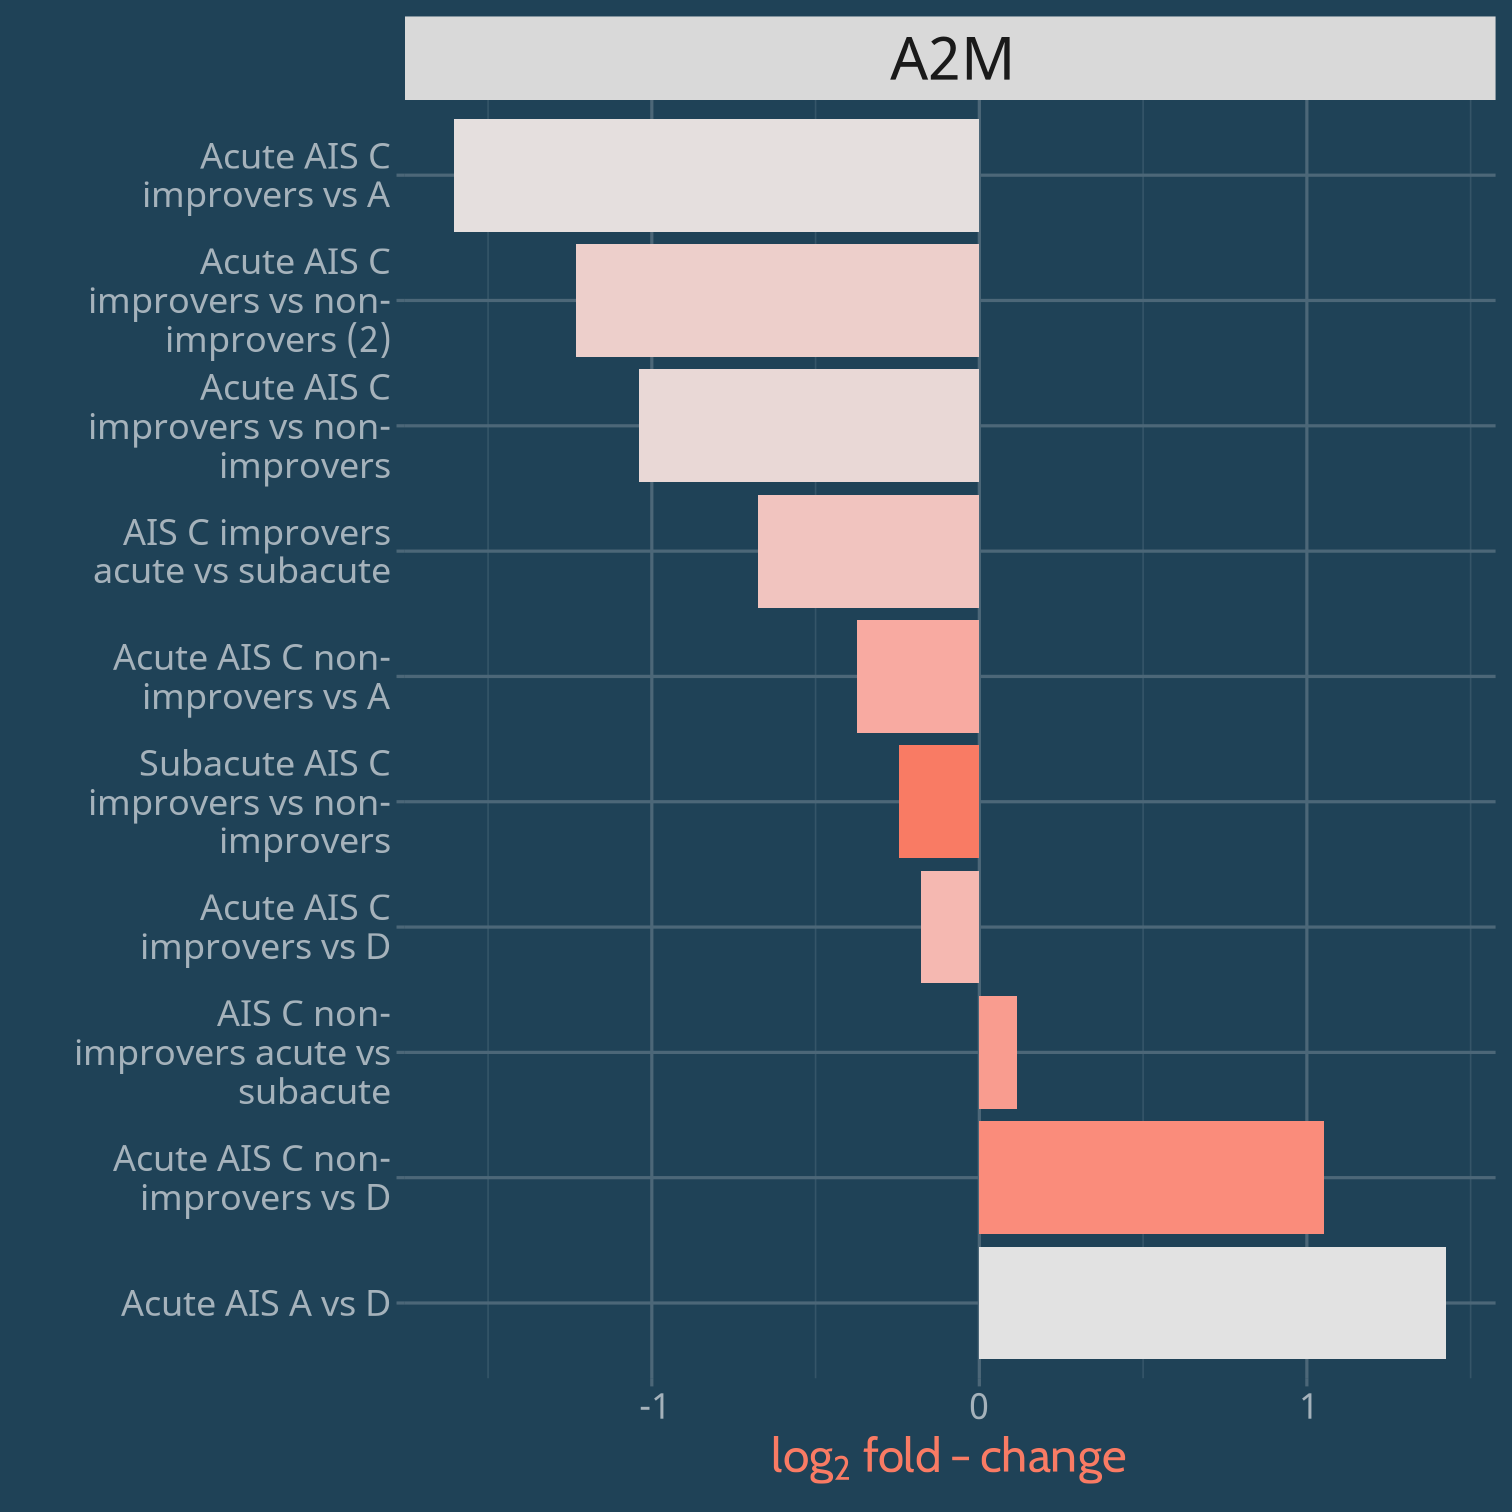
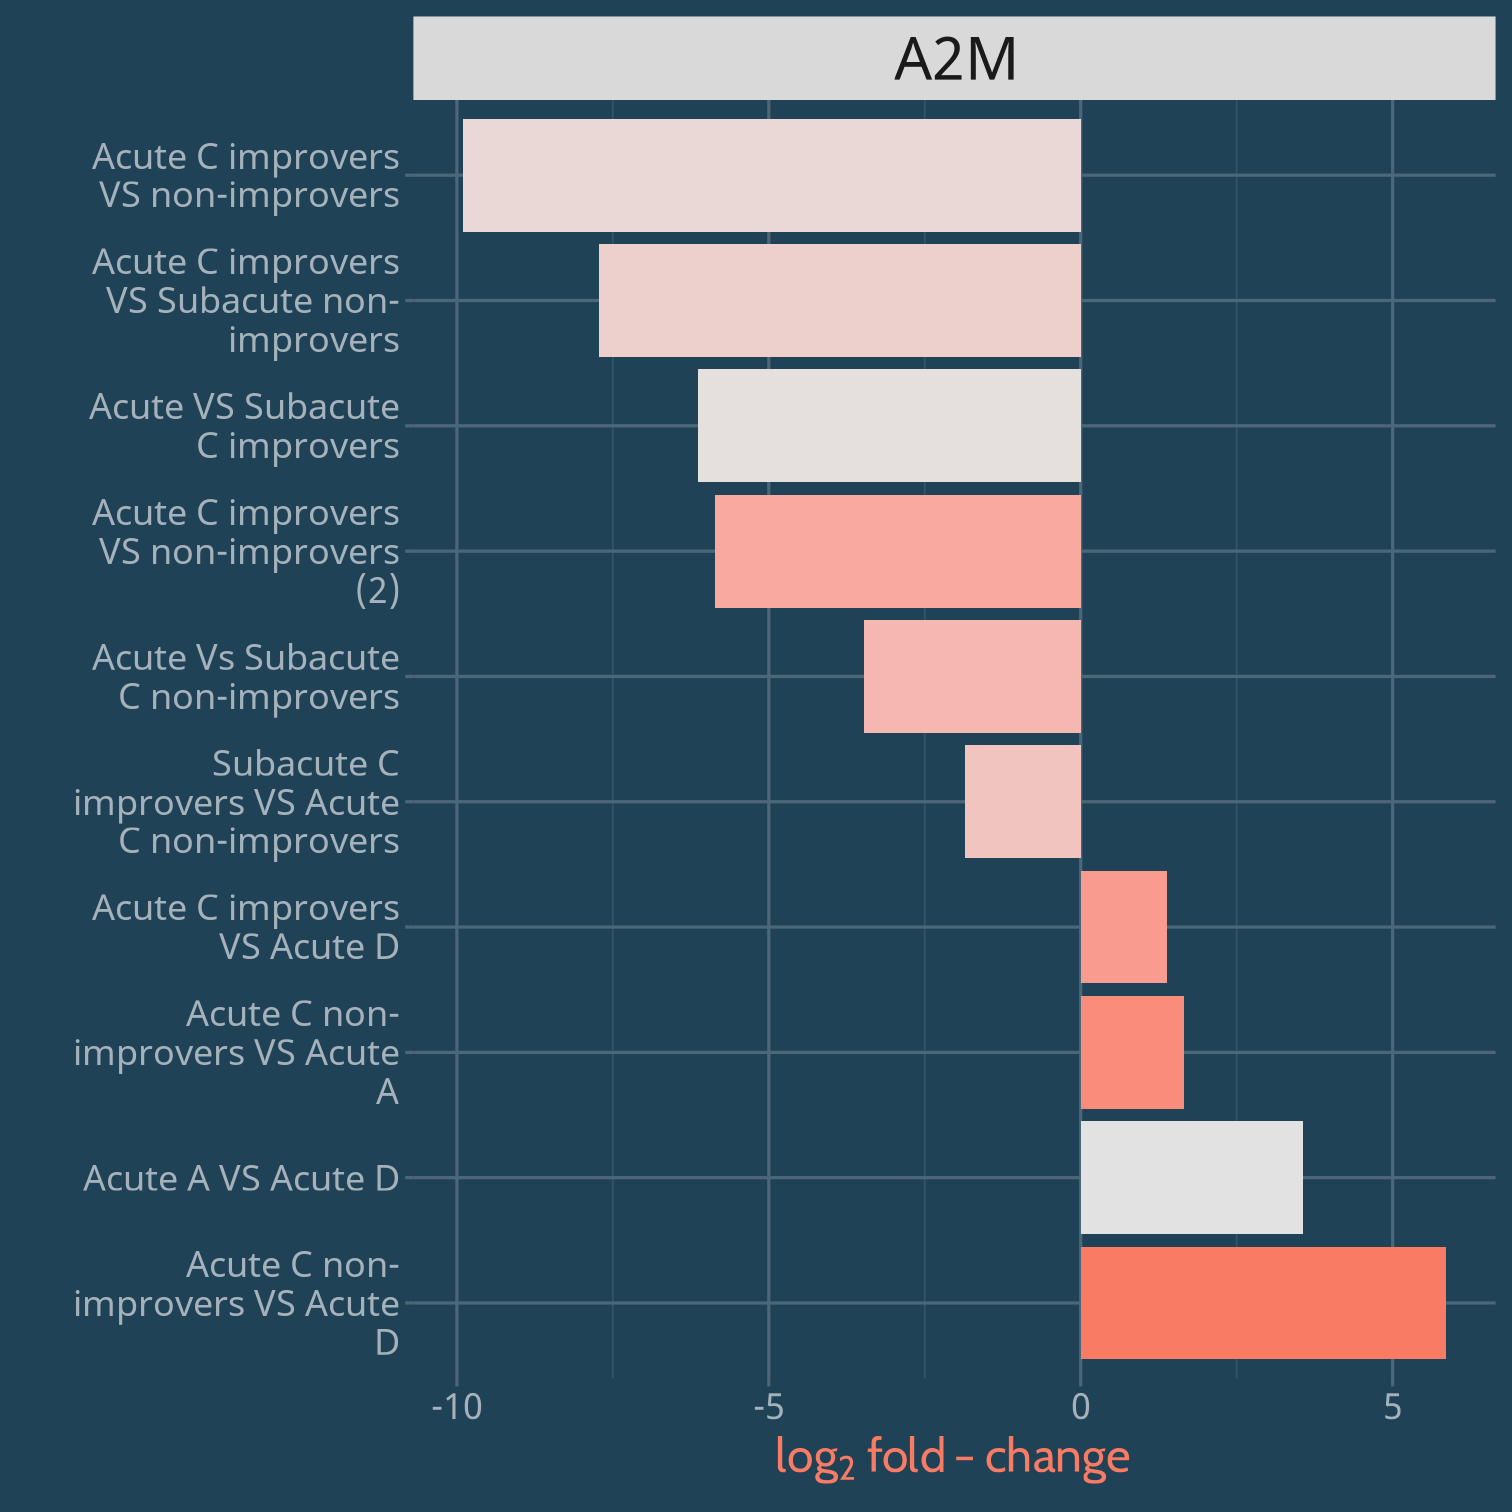
Removed a slide, cleaned up generally

diff --git a/iscos_sci_proteomics_2021-08-31/index.html b/iscos_sci_proteomics_2021-08-31/index.html
@@ -25,7 +25,7 @@ class: center, middle, inverse, title-slide
 # Proteomic and bioinformatics analyses of plasma from SCI neurological improvers and non-improvers
 ### Gabriel Mateus Bernardo Harrington
 ### Keele University
-### ISCoS 2021: VIRTUAL<br>Presented: 2021-10-01<br>(updated: 2021-09-02)
+### ISCoS 2021: VIRTUAL<br>Presented: 2021-10-01<br>(updated: 2021-09-03)
 
 ---
 
@@ -48,8 +48,8 @@ I declare to have no interests in the below:
 - Compensation for expert functions in health care and consulting health care guidance processes
 
 .center[
-<div id="htmlwidget-f2fda9ecb139a512e2f2" style="width:756px;height:288px;" class="leaflet html-widget"></div>
-<script type="application/json" data-for="htmlwidget-f2fda9ecb139a512e2f2">{"x":{"options":{"crs":{"crsClass":"L.CRS.EPSG3857","code":null,"proj4def":null,"projectedBounds":null,"options":{}}},"calls":[{"method":"addTiles","args":["//{s}.tile.openstreetmap.org/{z}/{x}/{y}.png",null,null,{"minZoom":0,"maxZoom":18,"tileSize":256,"subdomains":"abc","errorTileUrl":"","tms":false,"noWrap":false,"zoomOffset":0,"zoomReverse":false,"opacity":1,"zIndex":1,"detectRetina":false,"attribution":"&copy; <a href=\"http://openstreetmap.org\">OpenStreetMap<\/a> contributors, <a href=\"http://creativecommons.org/licenses/by-sa/2.0/\">CC-BY-SA<\/a>"}]}],"setView":[[52.884422,-3.033414],16,[]]},"evals":[],"jsHooks":[]}</script>
+<div id="htmlwidget-80e8397d92b804caa531" style="width:756px;height:288px;" class="leaflet html-widget"></div>
+<script type="application/json" data-for="htmlwidget-80e8397d92b804caa531">{"x":{"options":{"crs":{"crsClass":"L.CRS.EPSG3857","code":null,"proj4def":null,"projectedBounds":null,"options":{}}},"calls":[{"method":"addTiles","args":["//{s}.tile.openstreetmap.org/{z}/{x}/{y}.png",null,null,{"minZoom":0,"maxZoom":18,"tileSize":256,"subdomains":"abc","errorTileUrl":"","tms":false,"noWrap":false,"zoomOffset":0,"zoomReverse":false,"opacity":1,"zIndex":1,"detectRetina":false,"attribution":"&copy; <a href=\"http://openstreetmap.org\">OpenStreetMap<\/a> contributors, <a href=\"http://creativecommons.org/licenses/by-sa/2.0/\">CC-BY-SA<\/a>"}]}],"setView":[[52.884422,-3.033414],16,[]]},"evals":[],"jsHooks":[]}</script>
 ]
 
 ???
@@ -59,6 +59,8 @@ I declare to have no interests in the below:
 ---
 
 ## Prior work
+
+
 
 - Modelling of neurological outcomes with routine heamatological markers([Brown, Harrington, Hulme, et al., 2019](https://doi.org/10.1089/neu.2019.6495); [Bernardo Harrington, Cool, Hulme, et al., 2020](https://doi.org/10.1089/neu.2020.7144))
 - Found markers associated with liver function added modest predictive value
@@ -144,6 +146,20 @@ I declare to have no interests in the below:
 
 ---
 
+## iTRAQ key pathway - Complement cascade
+
+- Total number of proteins identified: 79
+- Majority of proteins identified are part of the complement cascade, differences in these pathways appears to be at least partially responsible for heterogeneous outcomes
+- Many of these proteins interact with the liver in some capacity
+
+&lt;img src="../../mateus/proteomics/figures/kegg_pathways/hsa04610_pathview.png" width="586" style="display: block; margin: auto;" /&gt;
+
+???
+
+The fold changes in the KEGG pathway are from the Acute AIS C improvers relative to non-improvers
+
+---
+
 ## iTRAQ proteins of interest
 
 ### Alpha-2-macroglobulin
@@ -162,6 +178,13 @@ I declare to have no interests in the below:
 
 ???
 
+### Proteinpilot data
+
+- Downreg in acute vs subacute for both C
+- Downreg in acute C imp vs non-imp (~10 &amp; 6 fc)
+- less abundant in Ds, more abundant in C non-imp vs A
+
+### OpenMs data
 - FCs between -1 and 1 are suspect
 - Downreg in acute and subacute C imp vs non-imp (~ -1 &amp; ~ -0.2 fc)
 - Downreg in C groups vs A, upreg in C vs D - tracks with severity
@@ -184,6 +207,17 @@ I declare to have no interests in the below:
 
 ???
 
+- Future studies modelling SCI outcomes may wish to incorporate ApoE variant as a factor should gene seq become ubiquitous
+
+### ProteinPilot data
+
+- Downreg in acute Cs vs subacute, both groups, imp gap bigger
+- upreg in A and D relative to both acute Cs
+- less abundant in subacute imp vs non-imp - may be reflective of severity
+
+
+### Openms data
+
 - Downreg in acute C imp vs non-imp (~ -1.25 fc)
 - Upreg in subacute C imp vs non-imp (~ 0.3 fc)
 - Downreg in C groups and D vs A
@@ -203,10 +237,17 @@ I declare to have no interests in the below:
 - Precursor of amyloid A, the aberrant deposition of which leads to inflammatory amyloidosis ([Sun and Ye, 2016](https://doi.org/10.1016/j.gene.2016.02.044))
 - Produced by hepatocytes, during acute phase response they associate with HDL, displacing ApoA1 ([Benditt and Eriksen, 1977](https://doi.org/10.1073/pnas.74.9.4025))
 - SAA binding HDL is thought to favour removal of cholesterol from sites of inflammation
+- SAA can also bind retinol, potentially limiting bacterial burden in tissues ([Derebe, Zlatkov, Gattu, et al., 2014](https://doi.org/10.7554/elife.03206))
 ]
 
 ???
 
+### Proteinpilot
+
+- way more abundant in subacute C imp vs non-imp (~28 fc)
+- even more so in acute C imp vs D
+
+### Openms
 - Downreg in acute C imp vs non-imp (~ -2.5 fc)
 - Upreg in subacute C imp vs non-imp (~ 2.4 fc)
 - Downreg in C groups and D vs A
@@ -230,34 +271,30 @@ I declare to have no interests in the below:
 
 ???
 
+### Proteinpilot
+
+- bottom bar: up in acute c imps vs non-imps
+
+### Openms
 - Similar modest upreg in acute and subacute C imp vs non-imp (~ 0.42 fc), but in run 2 there's a large downreg (~ -4 fc) for the acute
 - Upreg in subacute C imp vs non-imp (~ 2.4 fc)
 - Downreg in acute C imp vs D and A (~ -1.7 &amp; -3 fc), but upreg in acute C non-imp vs D and A (~ 1.2 &amp; 2.5 fc)
 ---
 
-## iTRAQ key pathway - Complement cascade
-
-- Majority of proteins identified are part of the complement cascade, differences in these pathways appears to be at least partially responsible for heterogeneous outcomes
-- Many of these proteins interact with the liver in some capacity
-- Future studies modelling SCI outcomes may wish to incorporate ApoE variant as a factor
-
-&lt;img src="../../mateus/proteomics/figures/kegg_pathways/hsa04610_pathview.png" width="586" style="display: block; margin: auto;" /&gt;
-
-???
-
-The fold changes in the KEGG pathway are from the Acute AIS C improvers relative to non-improvers
-
----
-
-## Label-free proteins
+## Label-free proteomics
 
 - Data still being analysed
 - Substantial overlap in proteins identified
 - Complement cascade still the most significant
 
 - Early proteins of interest:
-  - Peroxiredoxin 2, detected in Acute C improvers but not Acute C non-improvers. Involved in oxidative stress response
-  - Several immunoglobulins variable and constant regions, potential link to work suggesting IVIG therapy benefiting outcomes? ([Brennan, Kurniawan, Vukovic, et al., 2016](https://doi.org/10.1002/acn3.318))
+ - Peroxiredoxin 2, detected in Acute C improvers but not Acute C non-improvers. Involved in oxidative stress response
+ - Several immunoglobulins variable and constant regions, potential link to work suggesting IVIG therapy benefiting outcomes? ([Brennan, Kurniawan, Vukovic, et al., 2016](https://doi.org/10.1002/acn3.318))
+
+### Link between metabolic status and SCI?
+
+- Mounting evidence to support a link between the liver, and perhaps metabolic health more broadly, and SCI, including neurological outcomes
+- Excellent review by Goodus and McTigue on the topic &lt;a name=cite-goodus_hepatic_2020&gt;&lt;/a&gt;([Goodus and McTigue, 2020](https://doi.org/10.1016/j.expneurol.2019.113160))
 
 ---
 
@@ -295,24 +332,34 @@ _Proceedings of the National Academy of Sciences_ 74.9, pp. 4025-4028. ISSN: 002
 &lt;a name=bib-bernardo_harrington_routinely_2020&gt;&lt;/a&gt;[Bernardo Harrington, G. M., P. Cool, C. Hulme, et al.](#cite-bernardo_harrington_routinely_2020) (2020). "Routinely Measured Haematological Markers Can
 Help to Predict AIS Scores Following Spinal Cord Injury". In: _Journal of Neurotrauma_. ISSN: 0897-7151. DOI: [10.1089/neu.2020.7144](https://doi.org/10.1089%2Fneu.2020.7144).
 
-Bond, J. E., G. J. Cianciolo, and S. V. Pizzo (2007). "Incorporation of Low Molecular Weight Molecules into $A$2-Macroglobulin by Nucleophilic Exchange". En. In: _Biochemical and Biophysical Research
-Communications_ 357.2, pp. 433-438. ISSN: 0006-291X. DOI: [10.1016/j.bbrc.2007.03.151](https://doi.org/10.1016%2Fj.bbrc.2007.03.151).
+&lt;a name=bib-bond_incorporation_2007&gt;&lt;/a&gt;[Bond, J. E., G. J. Cianciolo, and S. V. Pizzo](#cite-bond_incorporation_2007) (2007). "Incorporation of Low Molecular Weight Molecules into Alpha2-Macroglobulin by
+Nucleophilic Exchange". En. In: _Biochemical and Biophysical Research Communications_ 357.2, pp. 433-438. ISSN: 0006-291X. DOI: [10.1016/j.bbrc.2007.03.151](https://doi.org/10.1016%2Fj.bbrc.2007.03.151).
 
 &lt;a name=bib-brennan_ivig_2016&gt;&lt;/a&gt;[Brennan, F. H., N. D. Kurniawan, J. Vukovic, et al.](#cite-brennan_ivig_2016) (2016). "IVIg Attenuates Complement and Improves Spinal Cord Injury Outcomes in Mice". En.
 In: _Annals of Clinical and Translational Neurology_ 3.7, pp. 495-511. ISSN: 2328-9503. DOI: [10.1002/acn3.318](https://doi.org/10.1002%2Facn3.318).
 
-&lt;a name=bib-brown_preliminary_2019&gt;&lt;/a&gt;[Brown, S. J., G. M. Harrington, C. H. Hulme, et al.](#cite-brown_preliminary_2019) (2019). "A Preliminary Cohort Study Assessing Routine Blood Analyte Levels and
-Neurological Outcome after Spinal Cord Injury". In: _Journal of Neurotrauma_. ISSN: 0897-7151. DOI: [10.1089/neu.2019.6495](https://doi.org/10.1089%2Fneu.2019.6495).
-
 ---
 
 ## References cont.
+
+&lt;a name=bib-brown_preliminary_2019&gt;&lt;/a&gt;[Brown, S. J., G. M. Harrington, C. H. Hulme, et al.](#cite-brown_preliminary_2019) (2019). "A Preliminary Cohort Study Assessing Routine Blood Analyte Levels and
+Neurological Outcome after Spinal Cord Injury". In: _Journal of Neurotrauma_. ISSN: 0897-7151. DOI: [10.1089/neu.2019.6495](https://doi.org/10.1089%2Fneu.2019.6495).
+
+&lt;a name=bib-derebe_serum_2014&gt;&lt;/a&gt;[Derebe, M. G., C. M. Zlatkov, S. Gattu, et al.](#cite-derebe_serum_2014) (2014). "Serum Amyloid A Is a Retinol Binding Protein That Transports Retinol during Bacterial
+Infection". In: _eLife_ 3. Ed. by F. M. Powrie, p. e03206. ISSN: 2050-084X. DOI: [10.7554/elife.03206](https://doi.org/10.7554%2Felife.03206).
+
+&lt;a name=bib-goodus_hepatic_2020&gt;&lt;/a&gt;[Goodus, M. T. and D. M. McTigue](#cite-goodus_hepatic_2020) (2020). "Hepatic Dysfunction after Spinal Cord Injury: A Vicious Cycle of Central and Peripheral Pathology?"
+En. In: _Experimental Neurology_ 325, p. 113160. ISSN: 0014-4886. DOI: [10.1016/j.expneurol.2019.113160](https://doi.org/10.1016%2Fj.expneurol.2019.113160).
 
 &lt;a name=bib-haskell_retinoic_2002&gt;&lt;/a&gt;[Haskell, G. T., T. M. Maynard, R. A. Shatzmiller, et al.](#cite-haskell_retinoic_2002) (2002). "Retinoic Acid Signaling at Sites of Plasticity in the Mature Central
 Nervous System". En. In: _Journal of Comparative Neurology_ 452.3, pp. 228-241. ISSN: 1096-9861. DOI: [10.1002/cne.10369](https://doi.org/10.1002%2Fcne.10369).
 
 &lt;a name=bib-jha_apolipoprotein_2008&gt;&lt;/a&gt;[Jha, A., D. P. Lammertse, J. R. Coll, et al.](#cite-jha_apolipoprotein_2008) (2008). "Apolipoprotein E E4 Allele and Outcomes of Traumatic Spinal Cord Injury". In:
 _The Journal of Spinal Cord Medicine_ 31.2, pp. 171-176. ISSN: 1079-0268.
+
+---
+
+## References cont.
 
 &lt;a name=bib-lane_role_2005&gt;&lt;/a&gt;[Lane, M. A. and S. J. Bailey](#cite-lane_role_2005) (2005). "Role of Retinoid Signalling in the Adult Brain". En. In: _Progress in Neurobiology_ 75.4, pp. 275-293. ISSN:
 0301-0082. DOI: [10.1016/j.pneurobio.2005.03.002](https://doi.org/10.1016%2Fj.pneurobio.2005.03.002).
